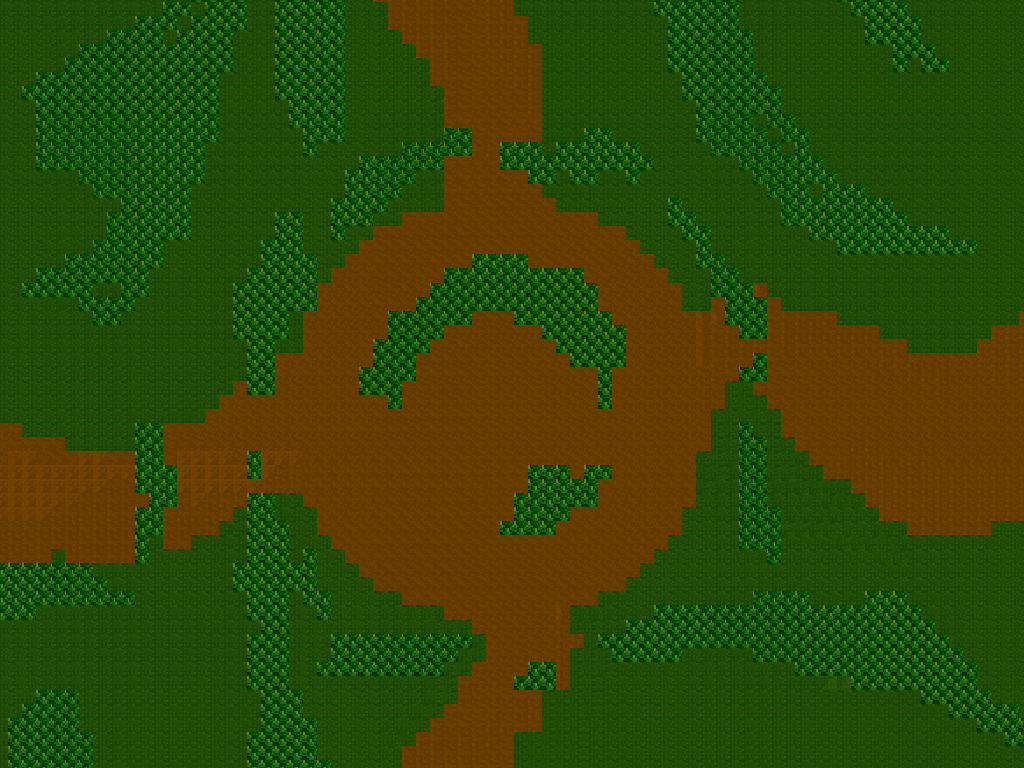
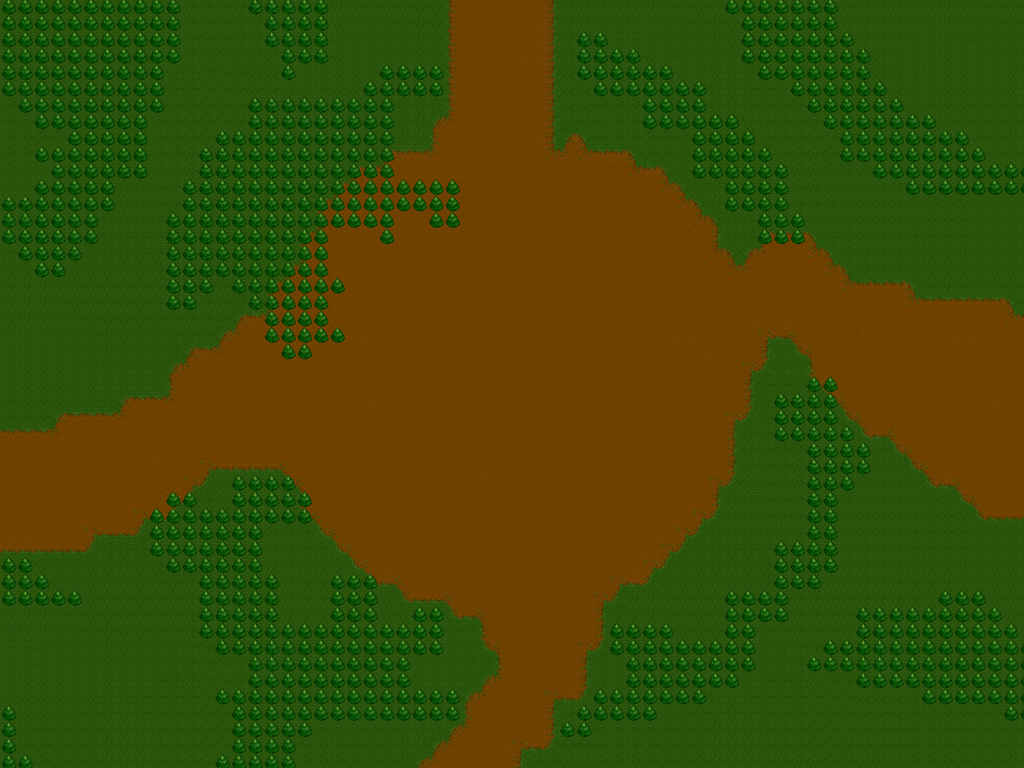
implemented move_to + changed background image

diff --git a/Motor2D/j1CutsceneManager.cpp b/Motor2D/j1CutsceneManager.cpp
@@ -27,8 +27,8 @@ bool j1CutsceneManager::Update(float dt)
 		}
 		else
 		{
-			/*execute activeSteps if one returns false, remove it from the activeSteps list
-			if the step that returns false is a WAIT type, loadFollowingSteps()*/
+			/*check activeSteps if one is finished, remove it from the activeSteps list
+			if the step finished is a WAIT type, loadFollowingSteps()*/
 			for (std::list<Step*>::iterator it_s = activeCutscene->activeSteps.begin(); it_s != activeCutscene->activeSteps.end(); it_s++)
 			{
 				if ((*it_s)->isFinished())//Enter if finished
@@ -147,8 +147,10 @@ Cutscene* j1CutsceneManager::loadCutscene(std::string tag)
 
 				newStep = new Step(type, element_type, id, duration);
 
-				if (type == MOVE || type == MOVE_TO)
+				if (type == MOVE)
 					newStep->setMovement(step.attribute("x").as_int(0), step.attribute("y").as_int(0));
+				else if (type == MOVE_TO)
+					newStep->setDestiny(step.attribute("x").as_int(0), step.attribute("y").as_int(0));
 
 				ret->steps.push_back(newStep);
 
@@ -193,6 +195,13 @@ bool Cutscene::isFinished() const
 	return missingSteps.size() == 0 && activeSteps.size() == 0; //if the activeSteps & missingSteps list is empty, the cutscene is finished
 }
 
+void Step::Start()
+{
+	timer.Start();
+	if (type == MOVE_TO)
+		movement = { 0,0 };
+}
+
 bool Step::isFinished() const
 {
 	if (timer.Read() >= duration) //return true when finished
@@ -203,5 +212,10 @@ bool Step::isFinished() const
 
 void Step::setMovement(int x, int y)
 {
-	movement = { (x / (float)(duration / 1000.0f)), (y / (float)(duration / 1000.0f)) };
+	movement = { x,y };
+}
+
+void Step::setDestiny(int x, int y)
+{
+	destiny = { x,y };
 }

diff --git a/Motor2D/j1EntityManager.cpp b/Motor2D/j1EntityManager.cpp
@@ -46,18 +46,27 @@ bool j1EntityManager::Update(float dt)
 				if (entity != nullptr)
 				{
 					fPoint stepMovement;
+					float time_percentage = dt / (float)((*it_s)->duration / 1000.0f);
 					switch ((*it_s)->type)
 					{
-					case MOVE:
-						stepMovement = { (*it_s)->movement.x * dt, (*it_s)->movement.y * dt };
-						entity->position += stepMovement;
-						break;
 					case MOVE_TO:
+						if ((*it_s)->movement.x == 0 && (*it_s)->movement.y == 0)
+						{
+							(*it_s)->movement.x = (*it_s)->destiny.x - entity->position.x;
+							(*it_s)->movement.y = (*it_s)->destiny.y - entity->position.y;
+						}
+					case MOVE:					
+						stepMovement = { (*it_s)->movement.x * time_percentage, (*it_s)->movement.y * time_percentage };
+						/*(*it_s)->moved += stepMovement;
+						if ((*it_s)->moved.x > (*it_s)->movement.x)
+							stepMovement.x -= (*it_s)->moved.x - (*it_s)->movement.x;
+						if ((*it_s)->moved.y > (*it_s)->movement.y)
+							stepMovement.y -= (*it_s)->moved.y - (*it_s)->movement.y;*/
+						entity->position += stepMovement;
 						break;
 					case ACTIVATE:
 						break;
 					case DEACTIVATE:
-						return false;
 						break;
 					}
 				}

diff --git a/Motor2D/j1CutsceneManager.h b/Motor2D/j1CutsceneManager.h
@@ -36,34 +36,27 @@ public:
 	~Step()
 	{}
 
-	void Start() { timer.Start(); }
+	void Start();
 
 	bool isFinished() const;
 
 	void setMovement(int x, int y);
+	void setDestiny(int x, int y);
 	
-
-	//void Move(UI_element* element);
-	/*
-	void MoveTo(UI_element* element);
-	void MoveTo(Entity* entity);
-
-	void Activate(bool activate, UI_element* element);
-	void Activate(bool activate, FX/MUSIC path?);
-
-	*/
 public:
 
 	stepOf element;
 	step_type type;
 	int id = 0;
-	fPoint movement = { 0.0f,0.0f };
+	iPoint movement = { 0,0 };
+	iPoint destiny = { 0,0 };
 	
+	int duration = 0;
 
 private:
 
-	int duration = 0;
 	j1Timer timer;
+	
 };
 
 class Cutscene

diff --git a/Motor2D/j1App.cpp b/Motor2D/j1App.cpp
@@ -42,9 +42,10 @@ j1App::j1App(int argc, char* args[]) : argc(argc), args(args)
 	AddModule(audio);
 	AddModule(font);
 	AddModule(scene);
+	AddModule(cutscenemanager);
 	AddModule(entitymanager);
 	AddModule(gui);
-	AddModule(cutscenemanager);
+	
 
 	// render last to swap buffer
 	AddModule(render);
